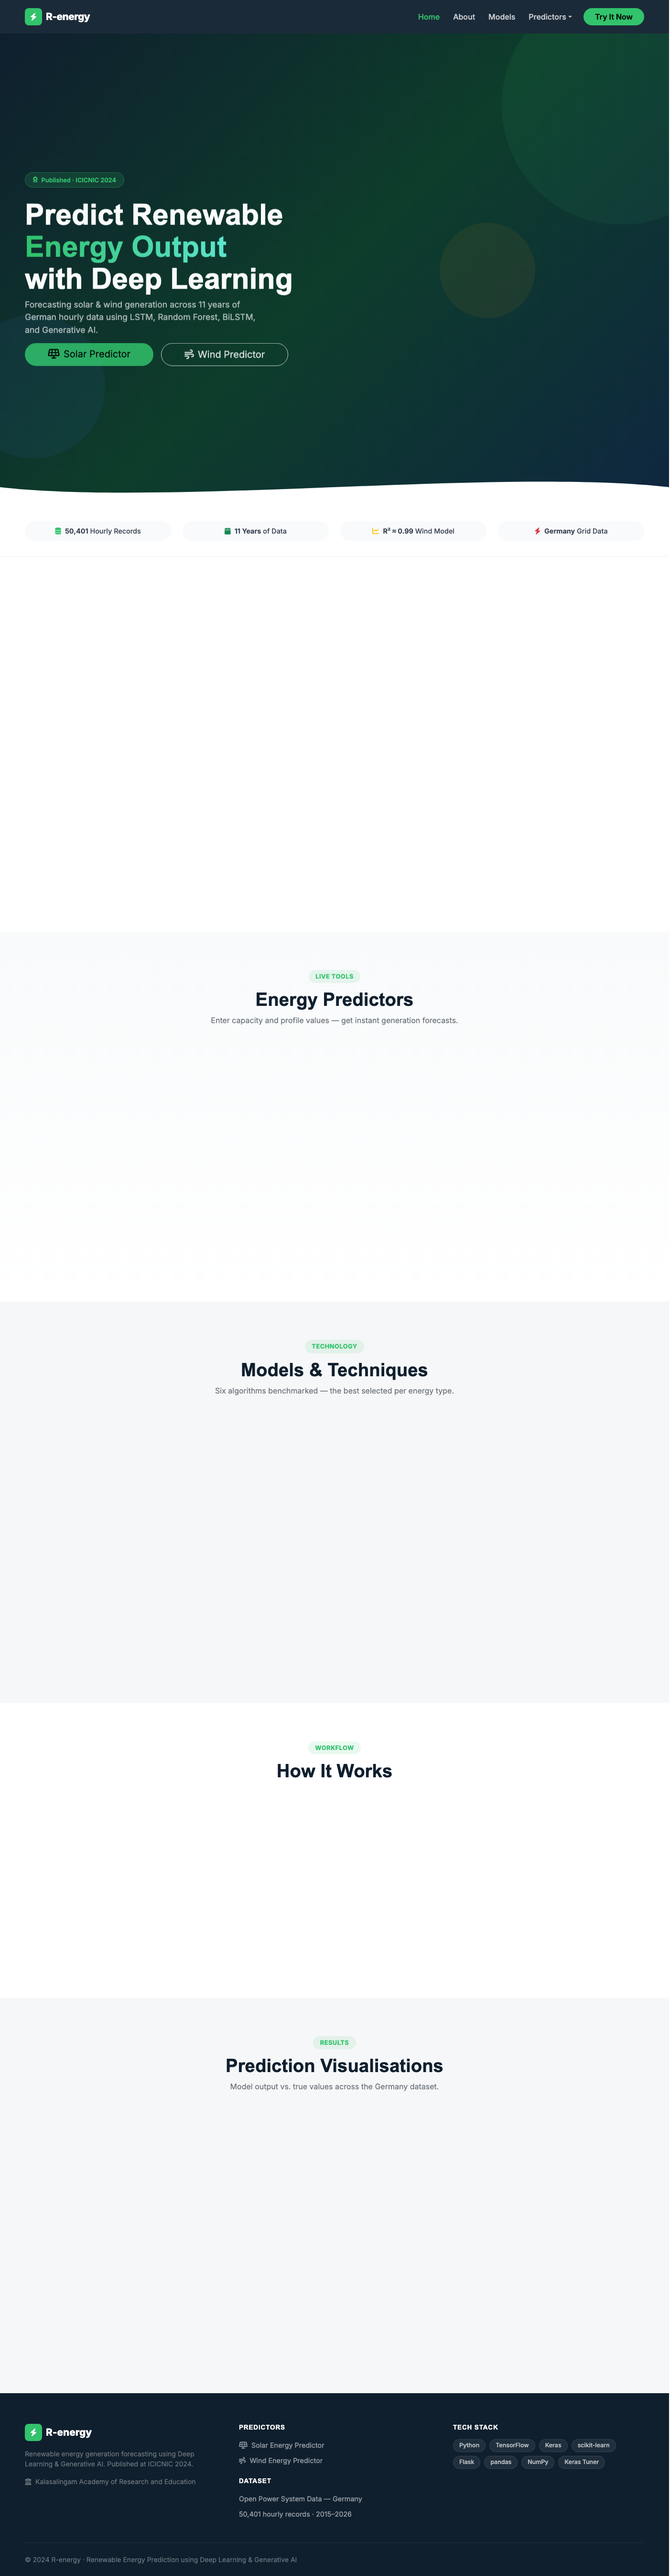
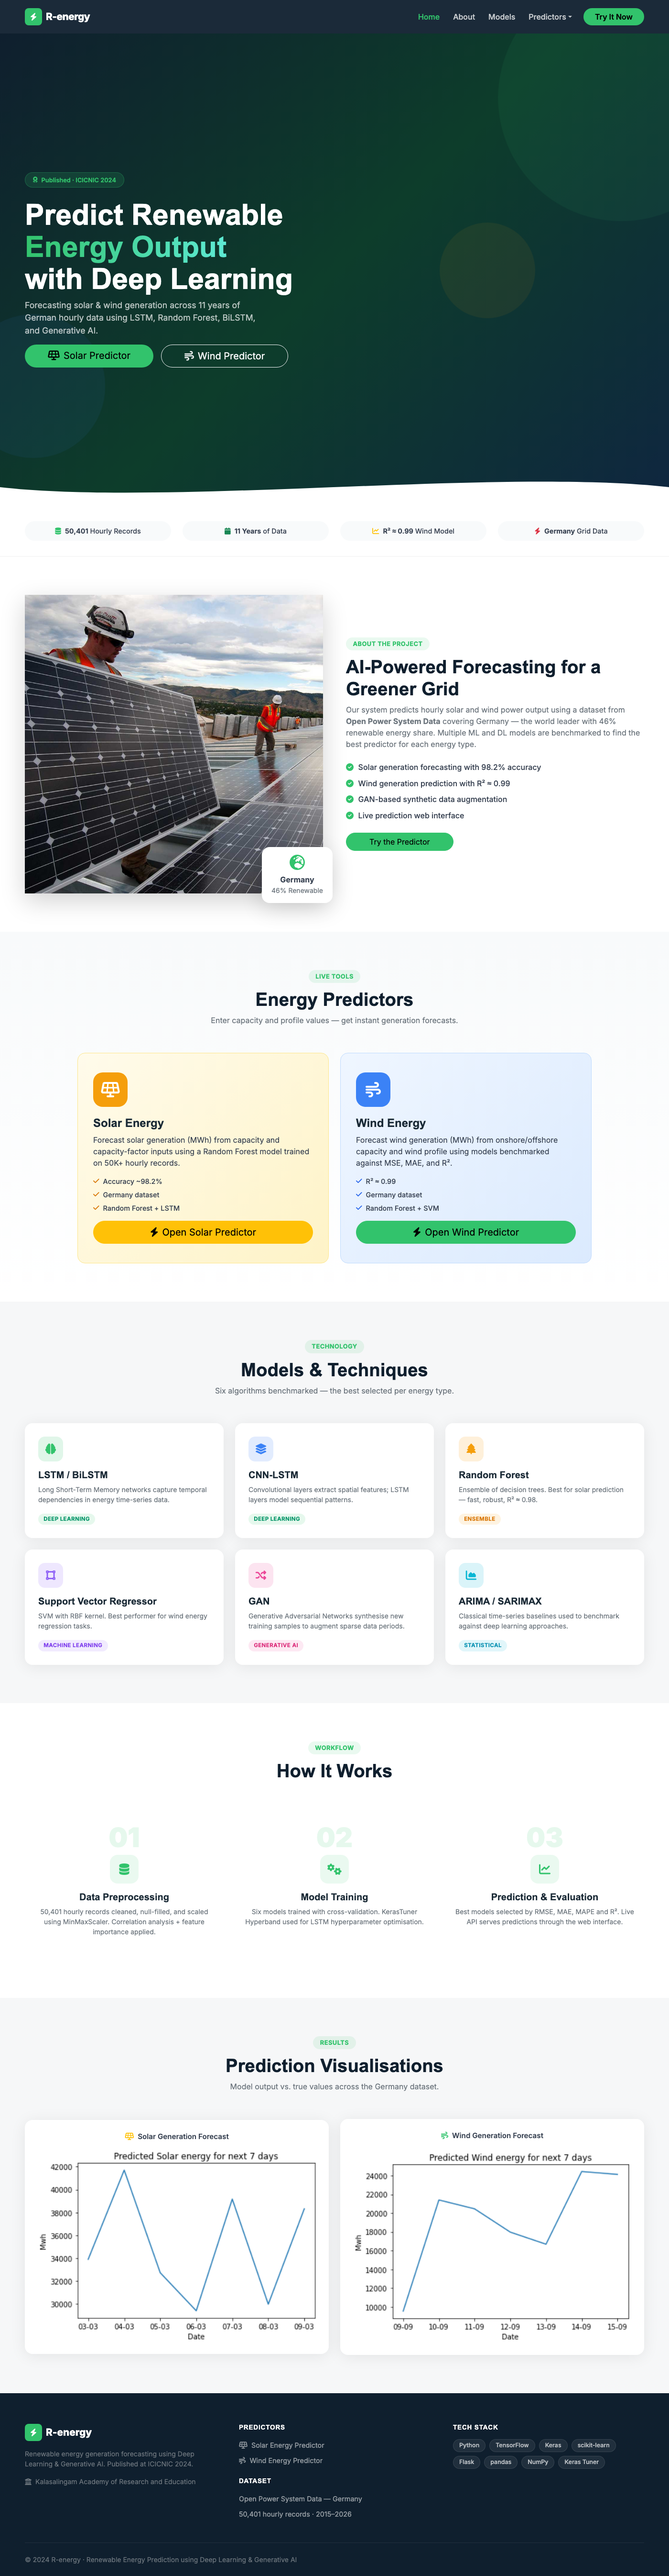
upgrading the readme

diff --git a/website/index.html b/website/index.html
@@ -367,8 +367,12 @@
     // Fade-in on scroll
     const observer = new IntersectionObserver(entries => {
         entries.forEach(e => { if (e.isIntersecting) { e.target.classList.add('visible'); observer.unobserve(e.target); } });
-    }, { threshold: 0.15 });
+    }, { threshold: 0.05, rootMargin: '0px 0px -40px 0px' });
     document.querySelectorAll('.fade-in-left, .fade-in-right, .model-card, .how-step, .predictor-card, .graph-card').forEach(el => observer.observe(el));
+    // Safety fallback: reveal all after 1.5s in case observer doesn't fire
+    setTimeout(() => {
+        document.querySelectorAll('.fade-in-left, .fade-in-right, .model-card, .how-step, .predictor-card, .graph-card').forEach(el => el.classList.add('visible'));
+    }, 1500);
 </script>
 </body>
 </html>

diff --git a/website/css/style.css b/website/css/style.css
@@ -317,6 +317,13 @@ body { font-family: 'Inter', sans-serif; color: var(--text); background: #fff; }
 .predictor-card.visible, .graph-card.visible {
     opacity: 1; transform: none;
 }
+/* Fallback: if JS hasn't run or user prefers no motion, always show content */
+@media (prefers-reduced-motion: reduce) {
+    .fade-in-left, .fade-in-right,
+    .model-card, .how-step, .predictor-card, .graph-card {
+        opacity: 1; transform: none; transition: none;
+    }
+}
 
 /* ─── Responsive ─── */
 @media (max-width: 991px) {
